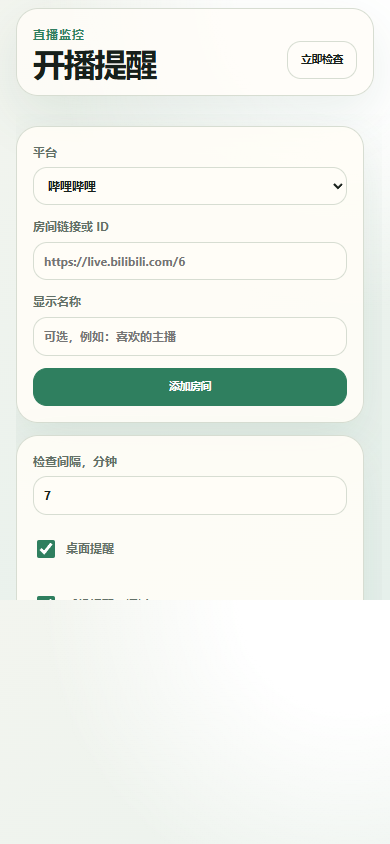
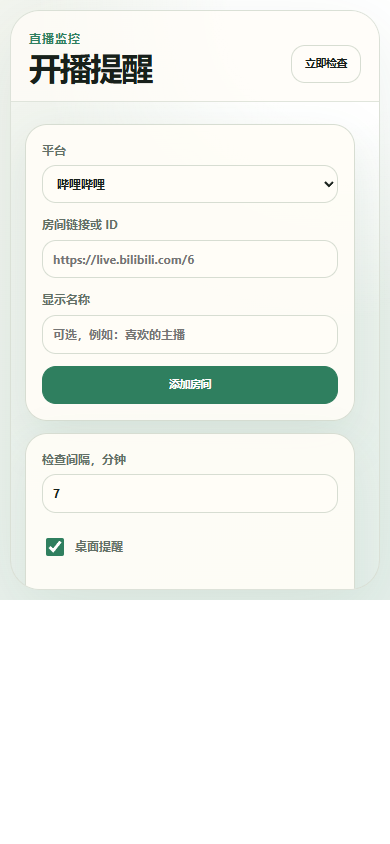
Release v0.1.4 add rounded popup frame

diff --git a/popup.html b/popup.html
@@ -12,63 +12,65 @@
   </head>
   <body>
     <main>
-      <header class="app-header">
-        <div>
-          <span class="eyebrow">直播监控</span>
-          <h1>开播提醒</h1>
-        </div>
-        <button id="check" class="secondary">立即检查</button>
-      </header>
-      <div class="scroll-shell">
-        <section class="panel">
-          <form id="add">
+      <div class="app-frame">
+        <header class="app-header">
+          <div>
+            <span class="eyebrow">直播监控</span>
+            <h1>开播提醒</h1>
+          </div>
+          <button id="check" class="secondary">立即检查</button>
+        </header>
+        <div class="scroll-shell">
+          <section class="panel">
+            <form id="add">
+              <label>
+                平台
+                <select id="platform">
+                  <option value="bilibili">哔哩哔哩</option>
+                  <option value="douyu">斗鱼</option>
+                </select>
+              </label>
+              <label class="wide">
+                房间链接或 ID
+                <input id="room" placeholder="https://live.bilibili.com/6" />
+              </label>
+              <label class="wide">
+                显示名称
+                <input
+                  id="label"
+                  placeholder="可选，例如：喜欢的主播"
+                  maxlength="80"
+                />
+              </label>
+              <button>添加房间</button>
+            </form>
+          </section>
+          <section class="settings panel">
             <label>
-              平台
-              <select id="platform">
-                <option value="bilibili">哔哩哔哩</option>
-                <option value="douyu">斗鱼</option>
-              </select>
+              检查间隔，分钟
+              <input id="interval" type="number" min="1" max="120" step="1" />
+            </label>
+            <label class="check">
+              <input id="desktop" type="checkbox" />
+              桌面提醒
+            </label>
+            <label class="check">
+              <input id="phone" type="checkbox" />
+              手机提醒，通过 ntfy
             </label>
             <label class="wide">
-              房间链接或 ID
-              <input id="room" placeholder="https://live.bilibili.com/6" />
+              ntfy 主题
+              <input id="topic" placeholder="例如 ak-live-alerts" />
             </label>
-            <label class="wide">
-              显示名称
-              <input
-                id="label"
-                placeholder="可选，例如：喜欢的主播"
-                maxlength="80"
-              />
-            </label>
-            <button>添加房间</button>
-          </form>
-        </section>
-        <section class="settings panel">
-          <label>
-            检查间隔，分钟
-            <input id="interval" type="number" min="1" max="120" step="1" />
-          </label>
-          <label class="check">
-            <input id="desktop" type="checkbox" />
-            桌面提醒
-          </label>
-          <label class="check">
-            <input id="phone" type="checkbox" />
-            手机提醒，通过 ntfy
-          </label>
-          <label class="wide">
-            ntfy 主题
-            <input id="topic" placeholder="例如 ak-live-alerts" />
-          </label>
-          <button id="save" type="button">保存设置</button>
-          <button id="test-phone" type="button" class="secondary">
-            测试手机
-          </button>
-        </section>
-        <p id="status" role="status" aria-live="polite"></p>
-        <section id="list" class="rooms"></section>
-        <footer>本地桌面提醒。手机提醒可选，需要使用 ntfy.sh。</footer>
+            <button id="save" type="button">保存设置</button>
+            <button id="test-phone" type="button" class="secondary">
+              测试手机
+            </button>
+          </section>
+          <p id="status" role="status" aria-live="polite"></p>
+          <section id="list" class="rooms"></section>
+          <footer>本地桌面提醒。手机提醒可选，需要使用 ntfy.sh。</footer>
+        </div>
       </div>
     </main>
     <script src="core.js"></script>

diff --git a/popup.css b/popup.css
@@ -26,6 +26,7 @@ html {
   height: var(--popup-height);
   overflow-x: hidden;
   overflow-y: hidden;
+  background: transparent;
 }
 body {
   margin: 0;
@@ -36,35 +37,45 @@ body {
   overflow-y: hidden;
   overscroll-behavior: contain;
   color: var(--text);
-  background:
-    radial-gradient(circle at 90% 0, #ffffff 0 8rem, transparent 22rem),
-    linear-gradient(145deg, var(--bg), #e6f0eb);
+  background: transparent;
 }
 main {
   width: var(--popup-width);
   height: var(--popup-height);
-  padding: 18px;
+  padding: 10px;
+  background:
+    radial-gradient(circle at 88% 0, #ffffff 0 8rem, transparent 22rem),
+    linear-gradient(145deg, var(--bg), #e6f0eb);
+}
+.app-frame {
+  display: flex;
+  flex-direction: column;
+  width: 100%;
+  height: 100%;
+  overflow: hidden;
+  background:
+    radial-gradient(circle at 90% 0, #ffffff 0 8rem, transparent 22rem),
+    linear-gradient(145deg, var(--bg), #e6f0eb);
+  border: 1px solid color-mix(in srgb, var(--line) 86%, transparent);
+  border-radius: 30px;
+  box-shadow: 0 24px 70px var(--shadow);
 }
 header {
   display: flex;
   align-items: center;
   justify-content: space-between;
   gap: 16px;
-  margin-bottom: 18px;
 }
 .app-header {
-  background: color-mix(in srgb, var(--surface) 82%, transparent);
-  border: 1px solid var(--line);
-  border-radius: 22px;
-  box-shadow: 0 18px 50px var(--shadow);
-  padding: 16px;
+  background: color-mix(in srgb, var(--surface) 74%, transparent);
+  border-bottom: 1px solid color-mix(in srgb, var(--line) 76%, transparent);
+  padding: 18px;
 }
 .scroll-shell {
-  height: calc(var(--popup-height) - 114px);
-  margin-right: -8px;
+  flex: 1;
   overflow-x: hidden;
   overflow-y: auto;
-  padding-right: 8px;
+  padding: 10px 14px 18px;
   scrollbar-gutter: stable;
 }
 .scroll-shell::-webkit-scrollbar {
@@ -270,6 +281,10 @@ footer {
     --shadow: #0000004d;
   }
   body {
+    background: transparent;
+  }
+  main,
+  .app-frame {
     background:
       radial-gradient(circle at 88% 0, #1d3327 0 8rem, transparent 22rem),
       linear-gradient(145deg, var(--bg), #121c16);
@@ -284,7 +299,7 @@ footer {
 }
 @media (max-width: 520px) {
   main {
-    padding: 16px;
+    padding: 10px;
   }
   form,
   .settings {

diff --git a/test/popup-css.test.js b/test/popup-css.test.js
@@ -20,5 +20,11 @@ test("popup CSS avoids viewport-width sizing that can collapse Edge popups", () 
 test("popup CSS uses an internal scrolling shell for mouse-wheel scrolling", () => {
   assert.match(css, /\.scroll-shell\s*{/);
   assert.match(css, /overflow-y:\s*auto/);
-  assert.match(css, /height:\s*calc\(var\(--popup-height\) - 114px\)/);
+  assert.match(css, /flex:\s*1/);
+});
+
+test("popup CSS draws a rounded outer app frame", () => {
+  assert.match(css, /\.app-frame\s*{/);
+  assert.match(css, /border-radius:\s*30px/);
+  assert.match(css, /overflow:\s*hidden/);
 });

diff --git a/docs/VALIDATION.md b/docs/VALIDATION.md
@@ -1,10 +1,10 @@
-# v0.1.3 Validation Notes
+# v0.1.4 Validation Notes
 
 Date: 2026-09-12. Environment: Windows, Node.js 24.11.0. Browser checks use Playwright with the local Edge installation.
 
 - Node tests cover room parsing, settings validation, provider response mapping, Chinese notification text, storage updates, transition-only notifications, duplicate room prevention, and popup CSS sizing regressions.
 - Edge loads the actual Manifest V3 extension with a temporary browser profile.
-- The popup UI is checked for adding Bilibili and Douyu rooms, settings updates, manual polling, stable popup width, hidden horizontal overflow, internal scrolling, and responsive layout.
+- The popup UI is checked for adding Bilibili and Douyu rooms, settings updates, manual polling, stable popup width, hidden horizontal overflow, rounded outer frame, internal scrolling, and responsive layout.
 - The provider tests use mocked responses. A manual network smoke check confirmed reachable JSON responses for Bilibili `room/v1/Room/get_info` and Douyu `betard`.
 
 Not validated: real phone delivery to a user-owned ntfy topic, long-running background behavior over many hours, Chrome Web Store packaging, and live Bilibili or Douyu logged-in page variants.

diff --git a/CHANGELOG.md b/CHANGELOG.md
@@ -1,5 +1,11 @@
 # Changelog
 
+## 0.1.4 - 2026-09-12
+
+- Added a single rounded outer app frame around the whole popup.
+- Moved the scrollbar inside the rounded frame so the outer edge looks cleaner.
+- Kept the fixed popup sizing and Chinese interface from v0.1.3.
+
 ## 0.1.3 - 2026-09-12
 
 - Switched the extension popup interface to Chinese.
